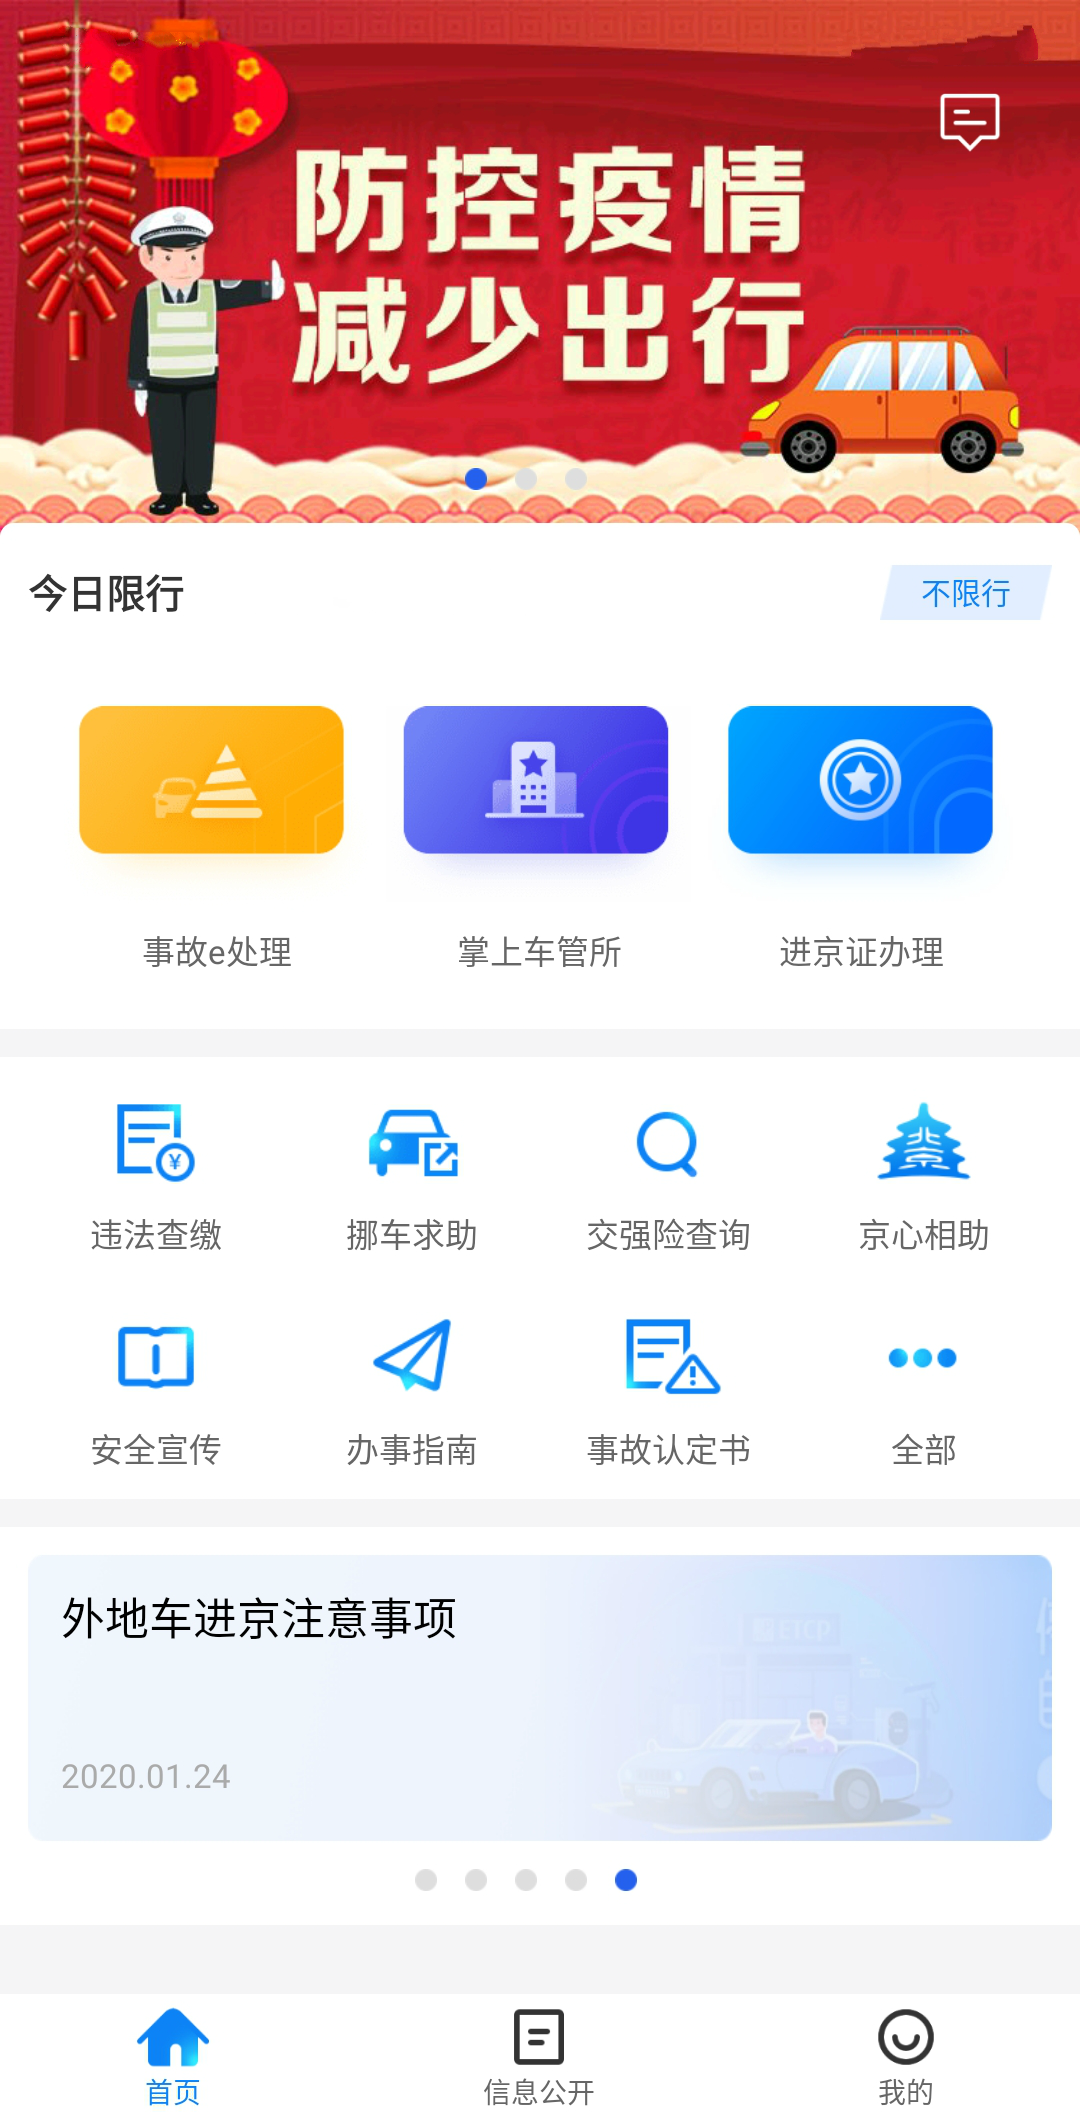
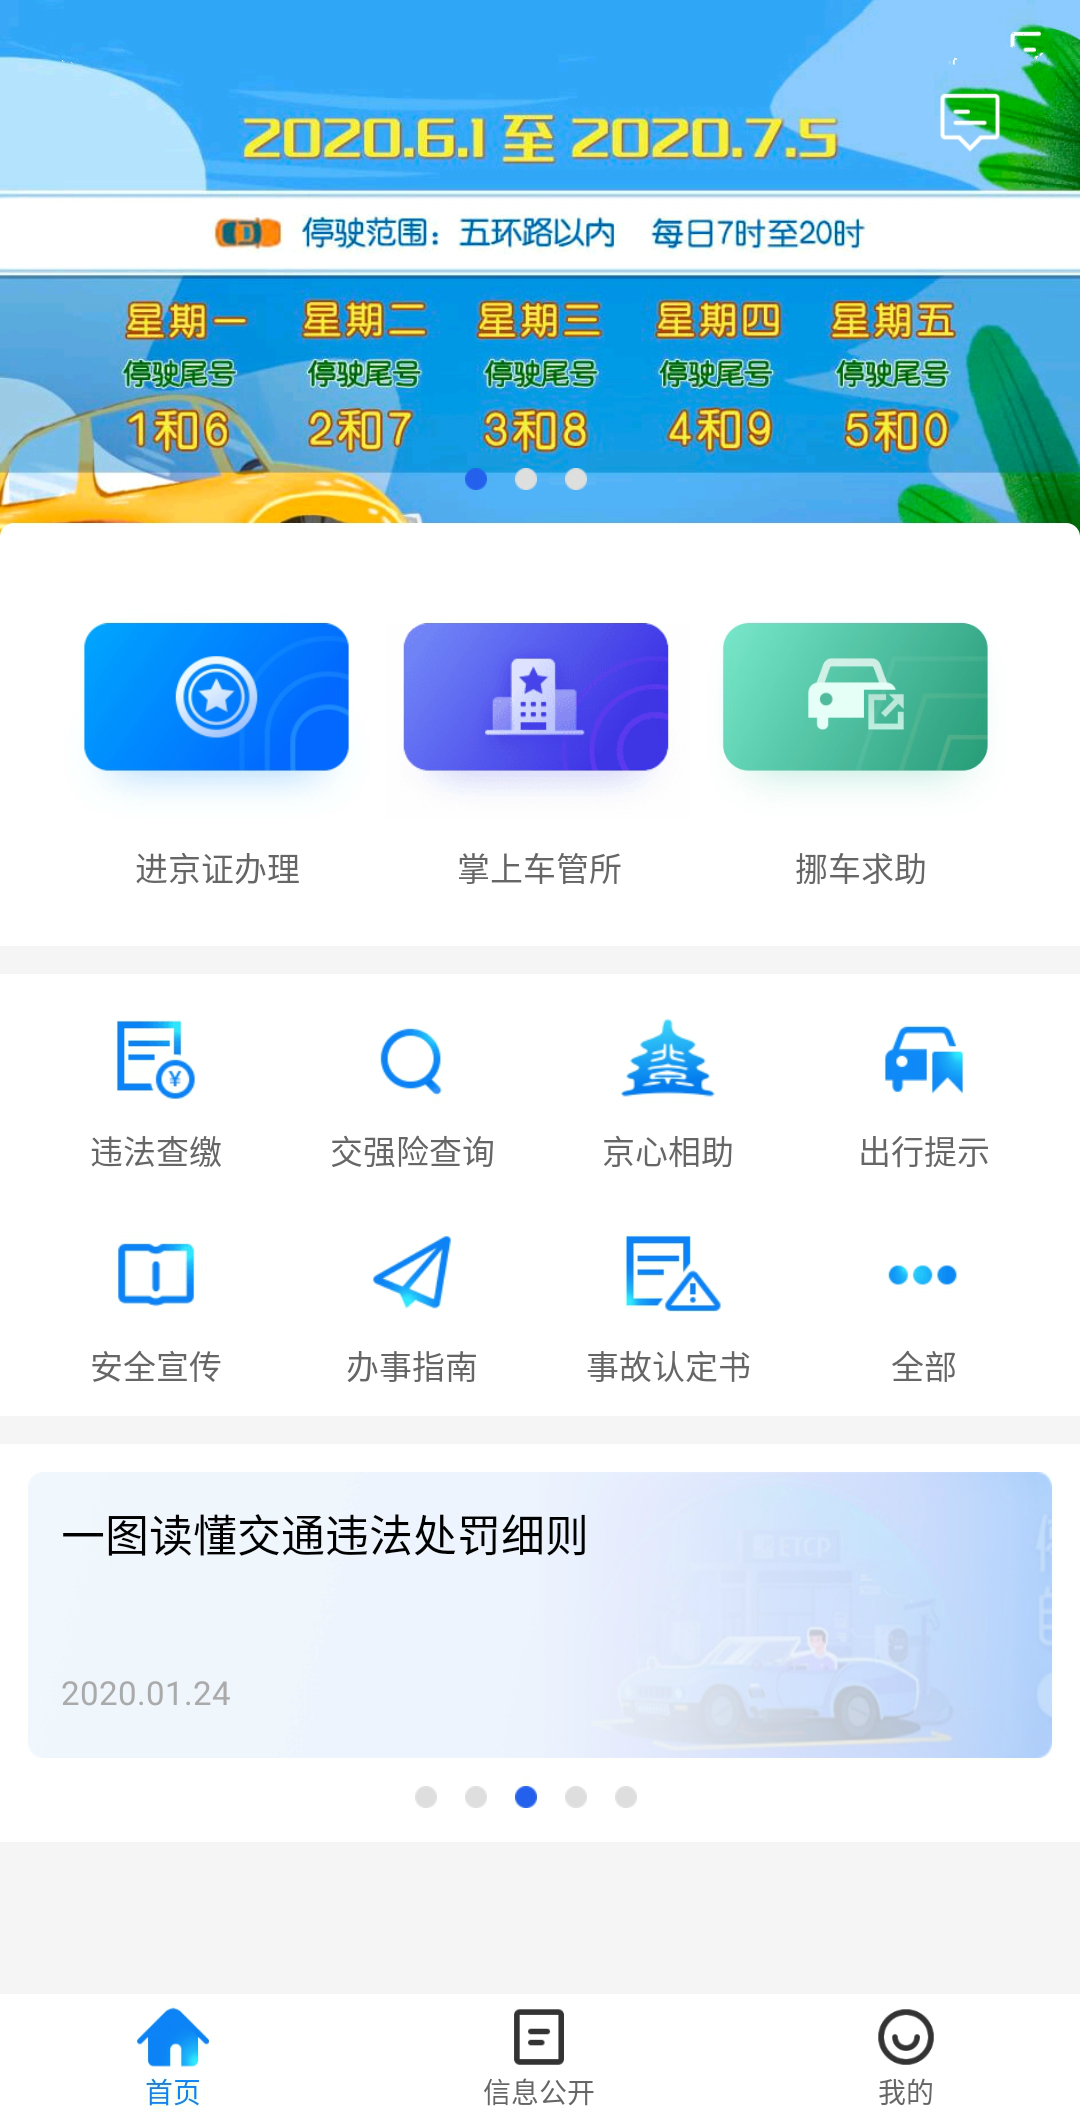
fix style

diff --git a/app/views/MainView.js b/app/views/MainView.js
@@ -7,7 +7,8 @@ import { XStyle, XColor } from 'app/config';
 import { TestView } from './TestView';
 
 
-const ApplyDate = '20200601';
+const FirstApplyDate = '20200601';
+const Duration = 7;
 
 class MainView extends Component{
   constructor(props) {
@@ -15,14 +16,23 @@ class MainView extends Component{
 
     this.jjButtonStyle = {
       position:'absolute',
-      right:32,
-      top:256,
+      left:28,
+      top:225,
       opacity:0
     };
 
   }
 
   componentWillMount(){
+
+    let now = moment();
+    let firstApplyDate = moment(FirstApplyDate);
+    let duration = moment.duration(now.diff(firstApplyDate));
+
+    let yushu = (duration.as('days'))%Duration;
+    let lastDays = Duration - Math.ceil(yushu);
+
+    console.log(' 111111 -->> ', yushu);
   }
 
   render(){
@@ -41,8 +51,7 @@ class MainView extends Component{
   }
 
   _onPress(){
-    // Actions.applyJJ();
-    Actions.applyedJJ({applyDate:ApplyDate});
+    Actions.applyedJJ({applyDate:'20200608'});
   }
 
 }
